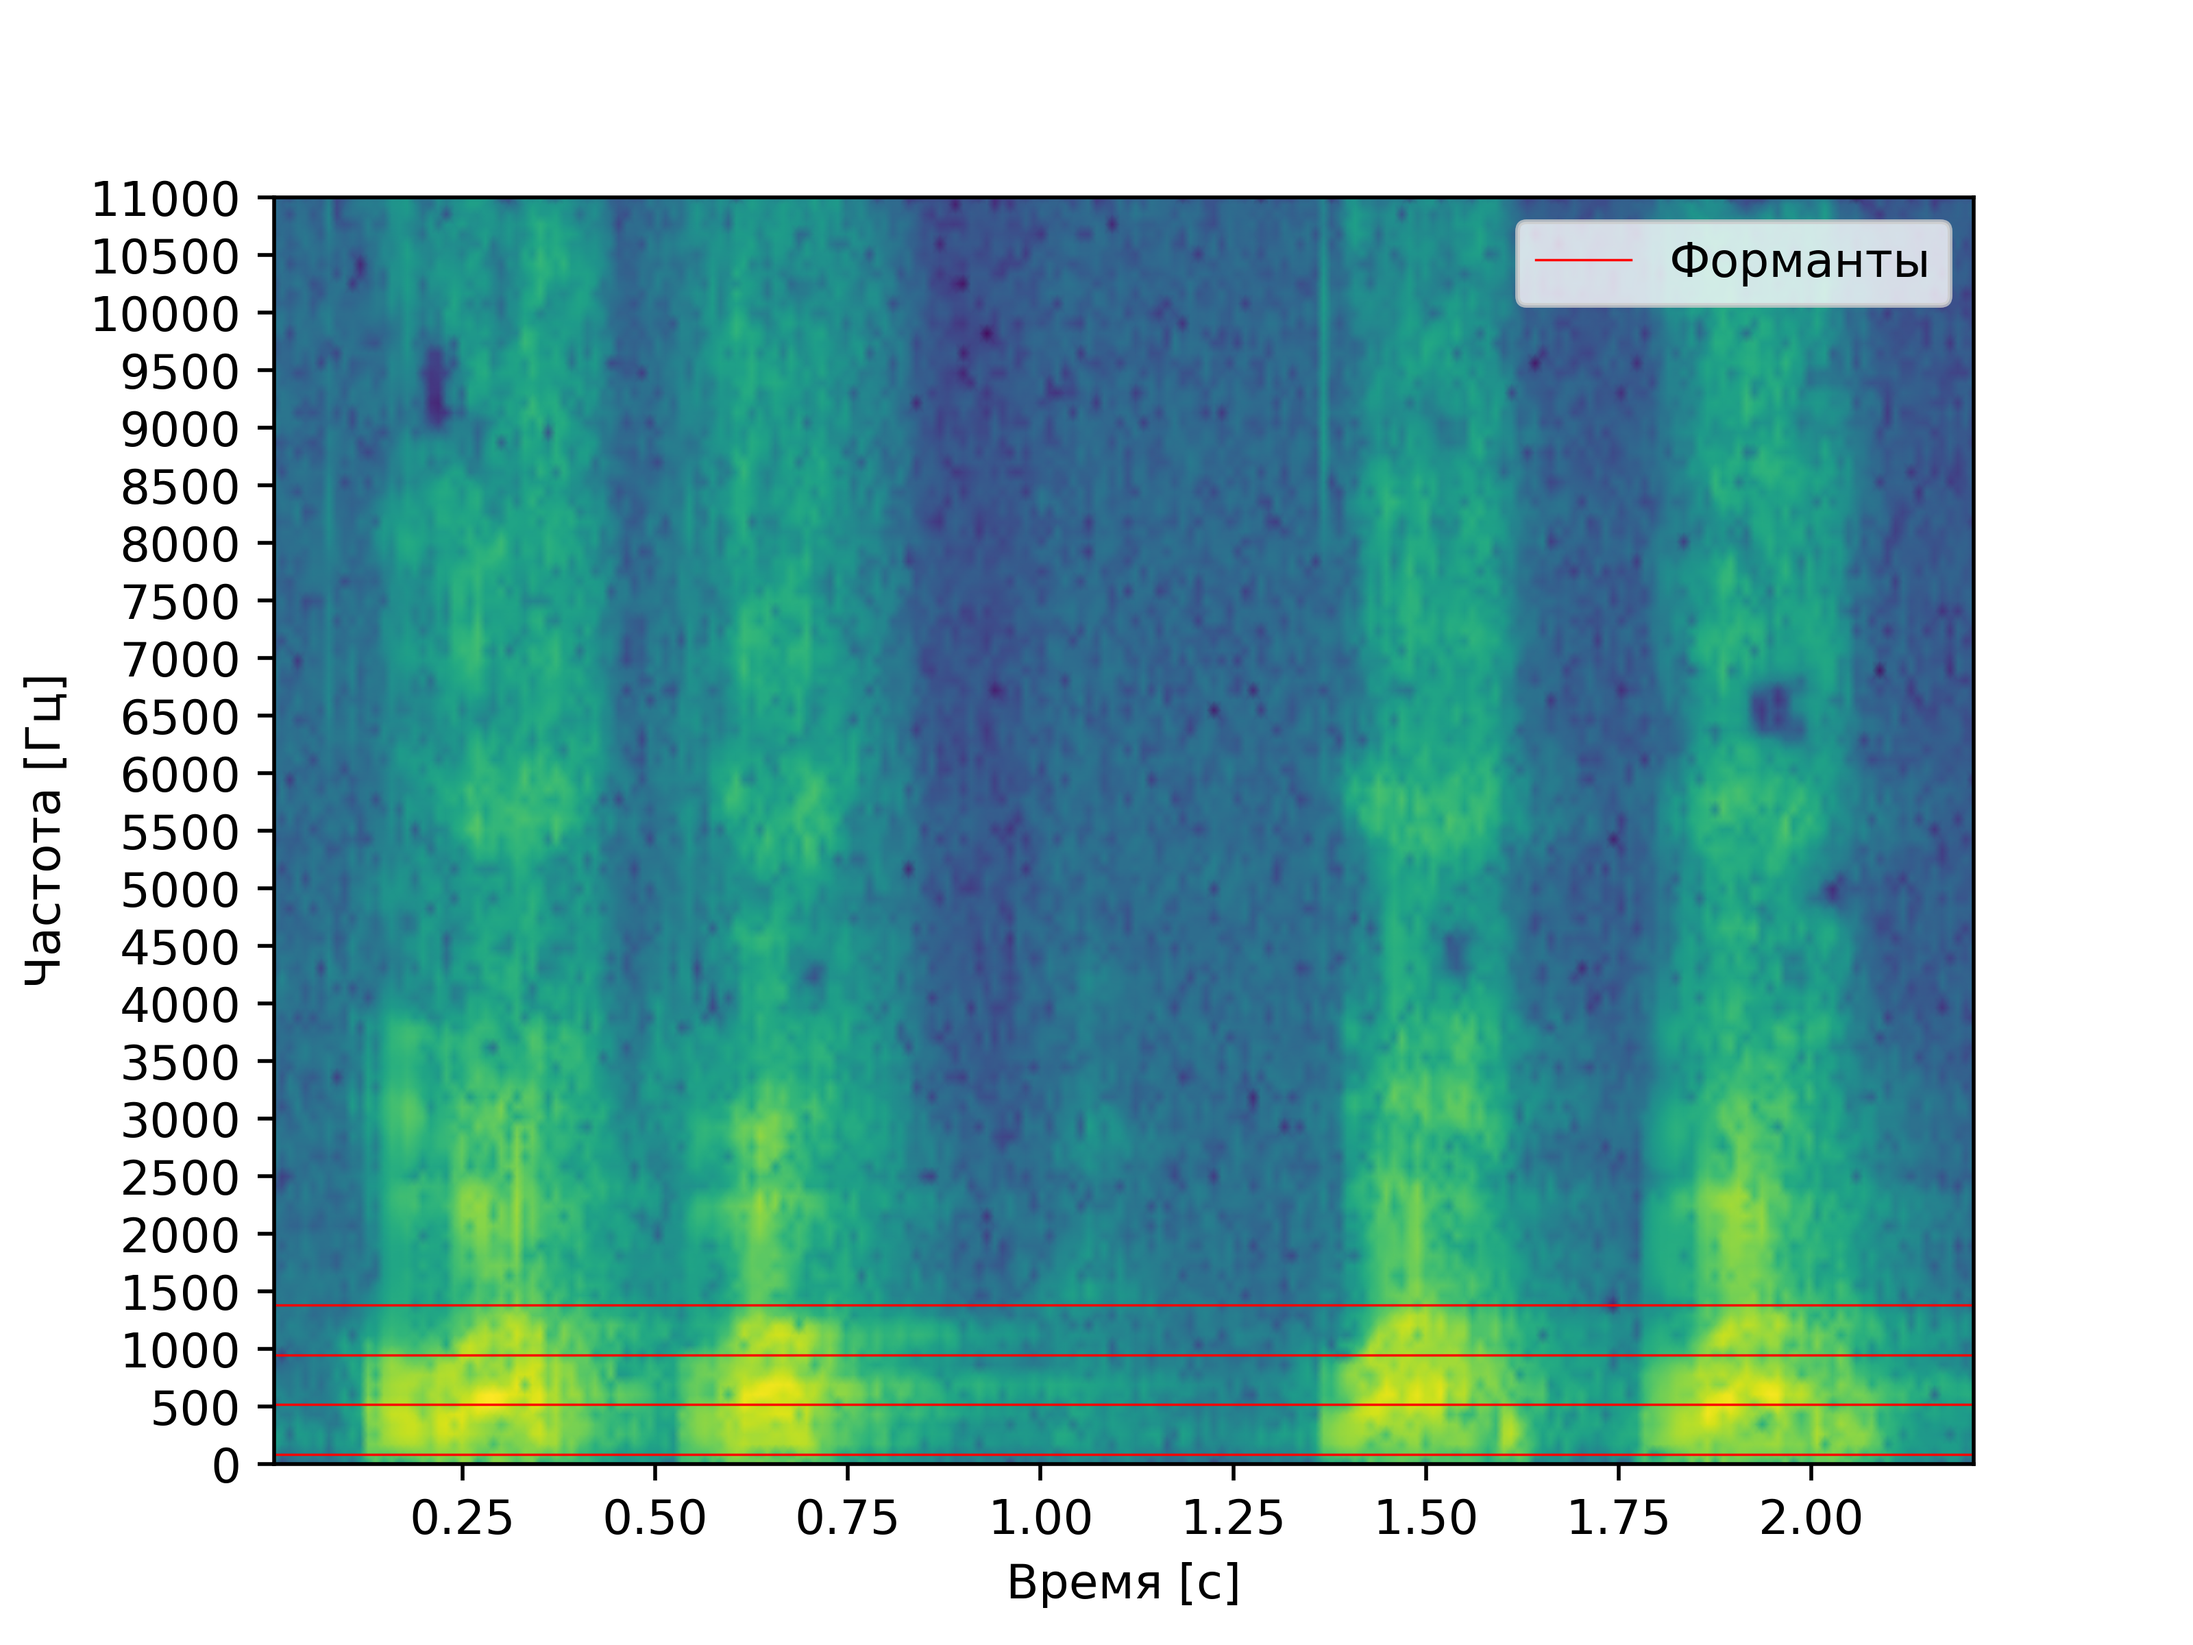
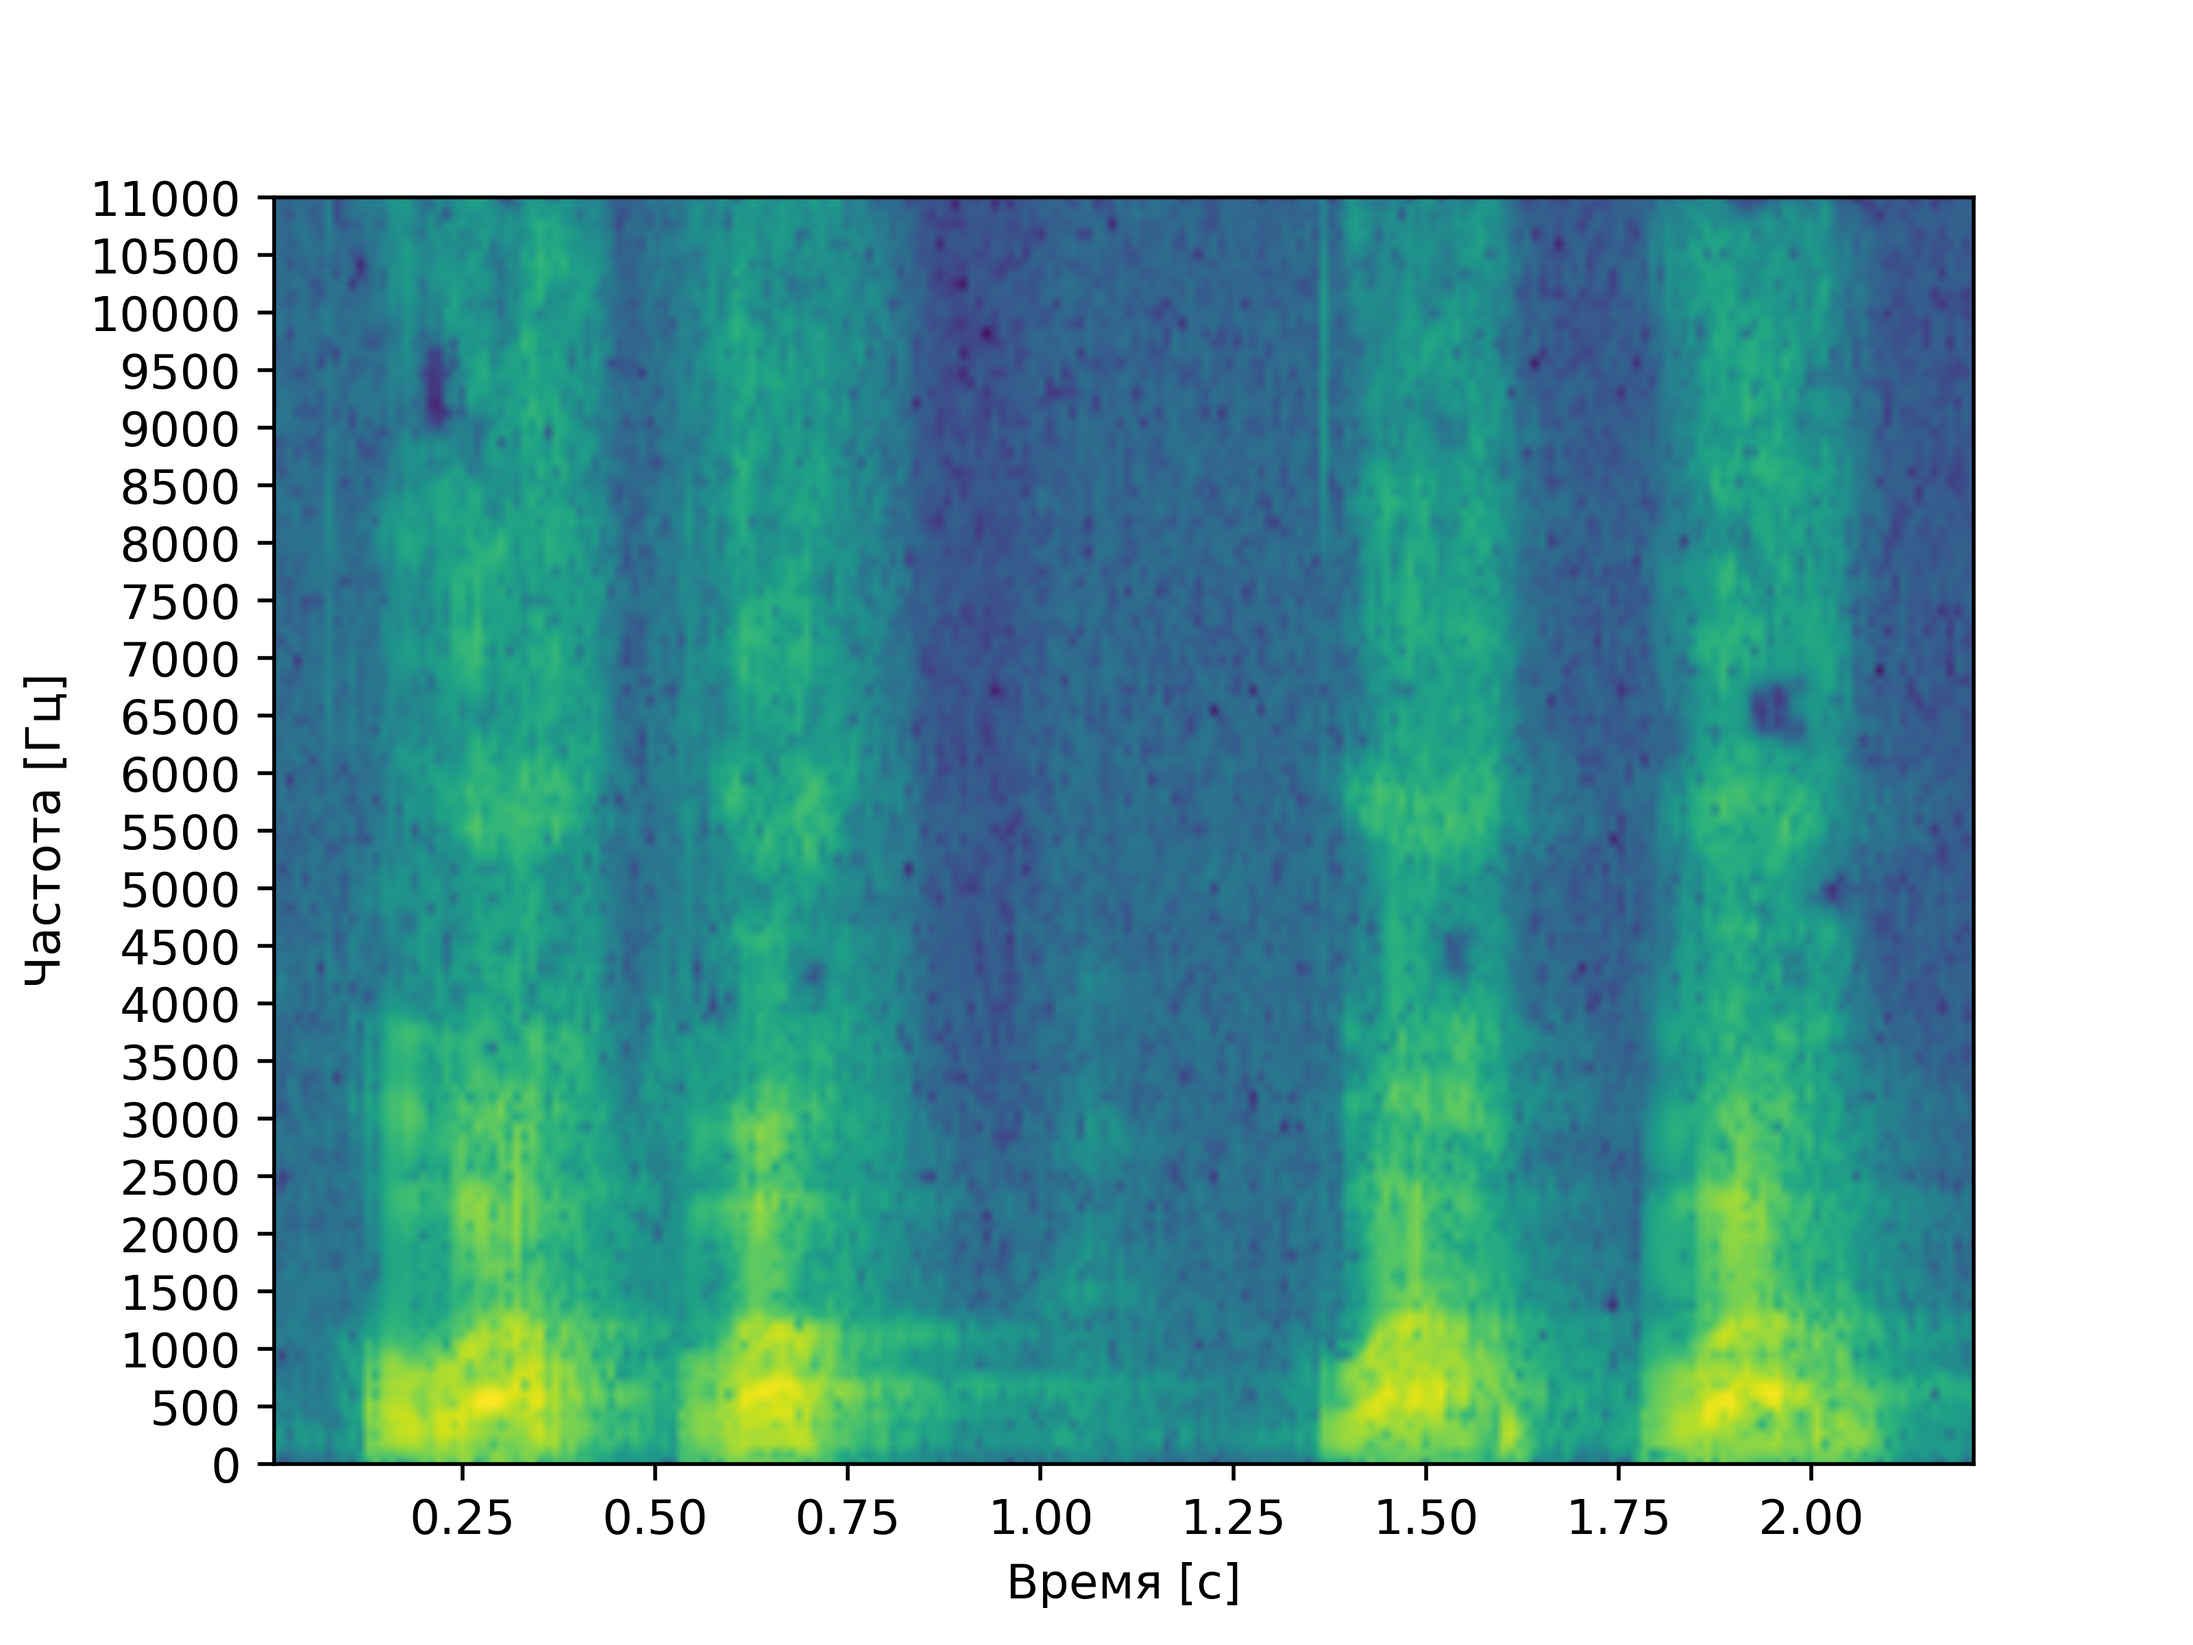
Add current changes.

Changed region(s): [[0.6875, 0.125, 0.9062, 0.1875]]

diff --git a/laba10/main.py b/laba10/main.py
@@ -44,11 +44,6 @@ if __name__ == '__main__':
    change_sample_rate("voice_gav.wav")
    sample_rate_gav , samples_gav = wavfile.read("results/wavs/voice_gav.wav")
    spectogram_gav, frequencies_gav = spectrogram_plot(samples_gav, sample_rate_gav, 11000)
-   plt.axhline(y = 516,  color = 'r', linestyle = '-', lw= 0.5, label = "Форманты")
-   plt.axhline(y = 947,  color = 'r', linestyle = '-', lw= 0.5)
-   plt.axhline(y = 1378,  color = 'r', linestyle = '-', lw= 0.5)
-   plt.axhline(y = 86,  color = 'r', linestyle = '-', lw= 0.5)
-   plt.legend()
    plt.savefig('results/spectrogram_gav.png', dpi = dpi)
    plt.clf()
 
@@ -88,9 +83,9 @@ if __name__ == '__main__':
    print("\n\nМинимальная частота для звука ГАВ: " + str(formants_gav[0]))
    print("Максимальная частота для звука ГАВ: " + str(formants_gav[-2]))
 
-   print("Тембрально окрашенный тон для звука ГАВ: " + str(formants_gav[0]))
+#    print("Тембрально окрашенный тон для звука ГАВ: " + str(formants_gav[0]))
 
-   power_gav = power(frequencies_gav, spec_gav, 5, formants_gav)
-   power_gav.pop(8268)
-   print(sorted(power_gav.items(), key = lambda item: item[1], reverse=True))
-   print("Четыре самые сильные форманты: " + str(sorted(power_gav, key=lambda i: power_gav[i])[-4:]))
+#    power_gav = power(frequencies_gav, spec_gav, 5, formants_gav)
+#    power_gav.pop(8268)
+#    print(sorted(power_gav.items(), key = lambda item: item[1], reverse=True))
+#    print("Четыре самые сильные форманты: " + str(sorted(power_gav, key=lambda i: power_gav[i])[-4:]))

diff --git a/laba10/README.md b/laba10/README.md
@@ -2,7 +2,7 @@
 Лабораторная работа выполнялась для записи звуков "А" и "И" мужским голосом, а также для имитации собачьего лая.
 Построены спектрограммы записи названных звуков и приведен их анализ: 
 - Определение примерных минимальной и максимальной частот голоса
-- Поиск основного тона
+- Поиск тембрально окрашенного тона
 - Поиск самых сильных формант
 
 ## Спектрограмма записи звука "А" по наростающей
@@ -33,3 +33,7 @@
 **Форманты:** в целом похожи на форманты буквы "А", но по частоте ниже: первая основная **FI** 86 Гц, вторая основная **FII** - 516 Гц, третья основная **FIII** - 947 Гц, **FIV** 1378 Гц
 
 **Максимальная частоста:** 2239 Гц
+
+## Выводы
+
+При сравнении спектрограмм звуков "И" и "А" можно увидеть, что у второй значительная часть переносящих основную энергию формант сосредоточена в диапазоне 86 --- 1120 Гц. У первой же перенос энергии происходит как на низких частотах (86 --- 602) Гц, так и на высоких (см форманту  **FIV** 2928 Гц)
